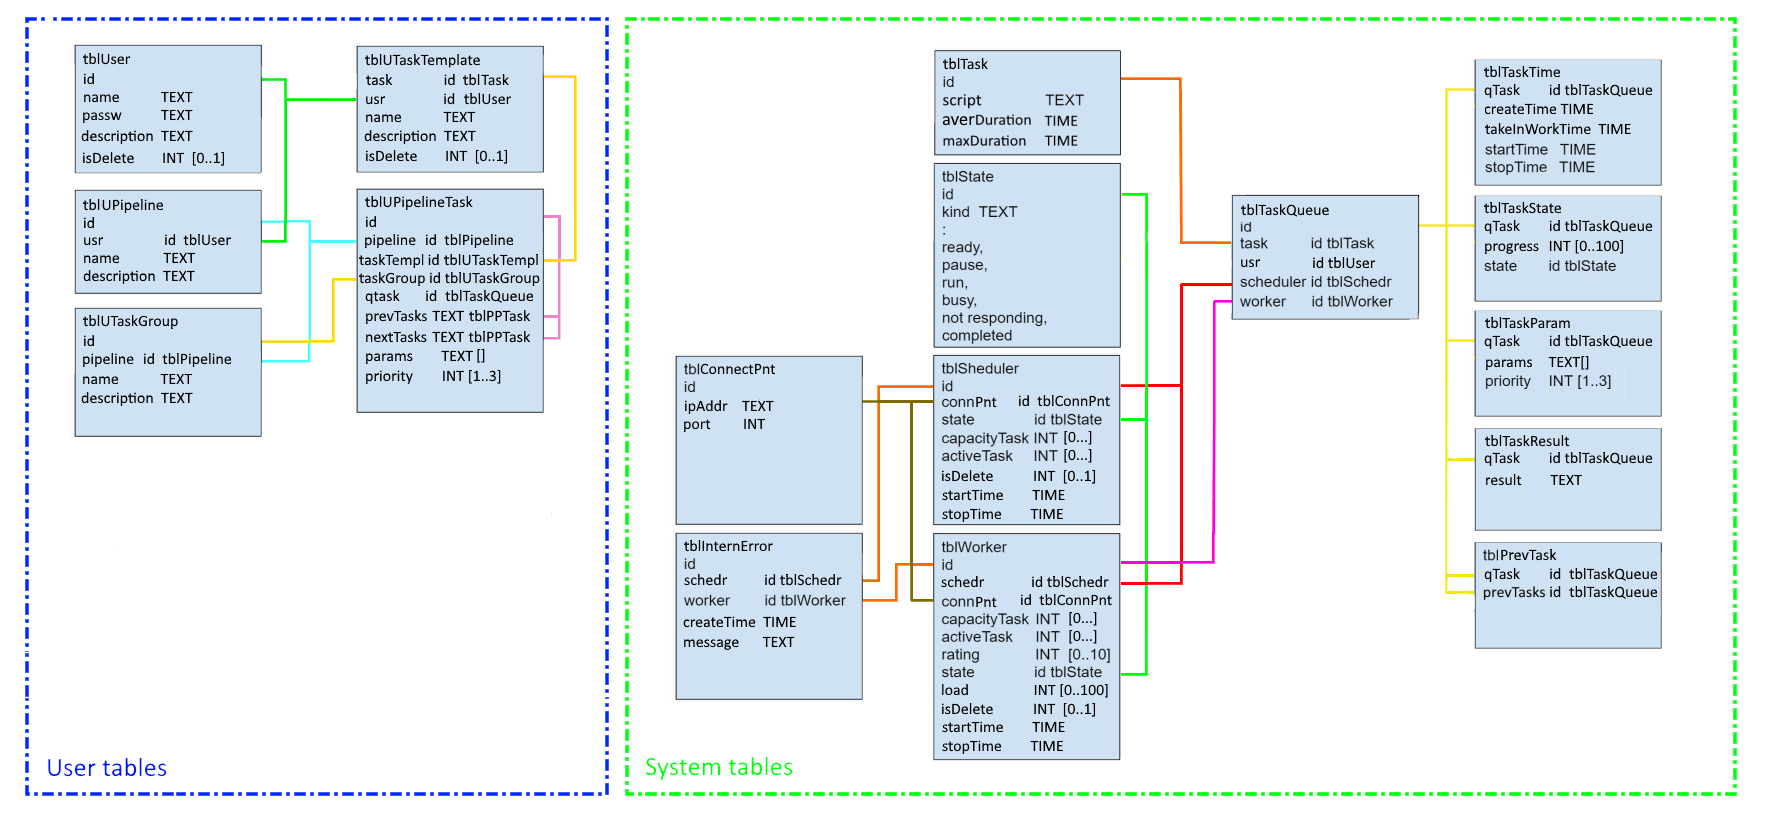
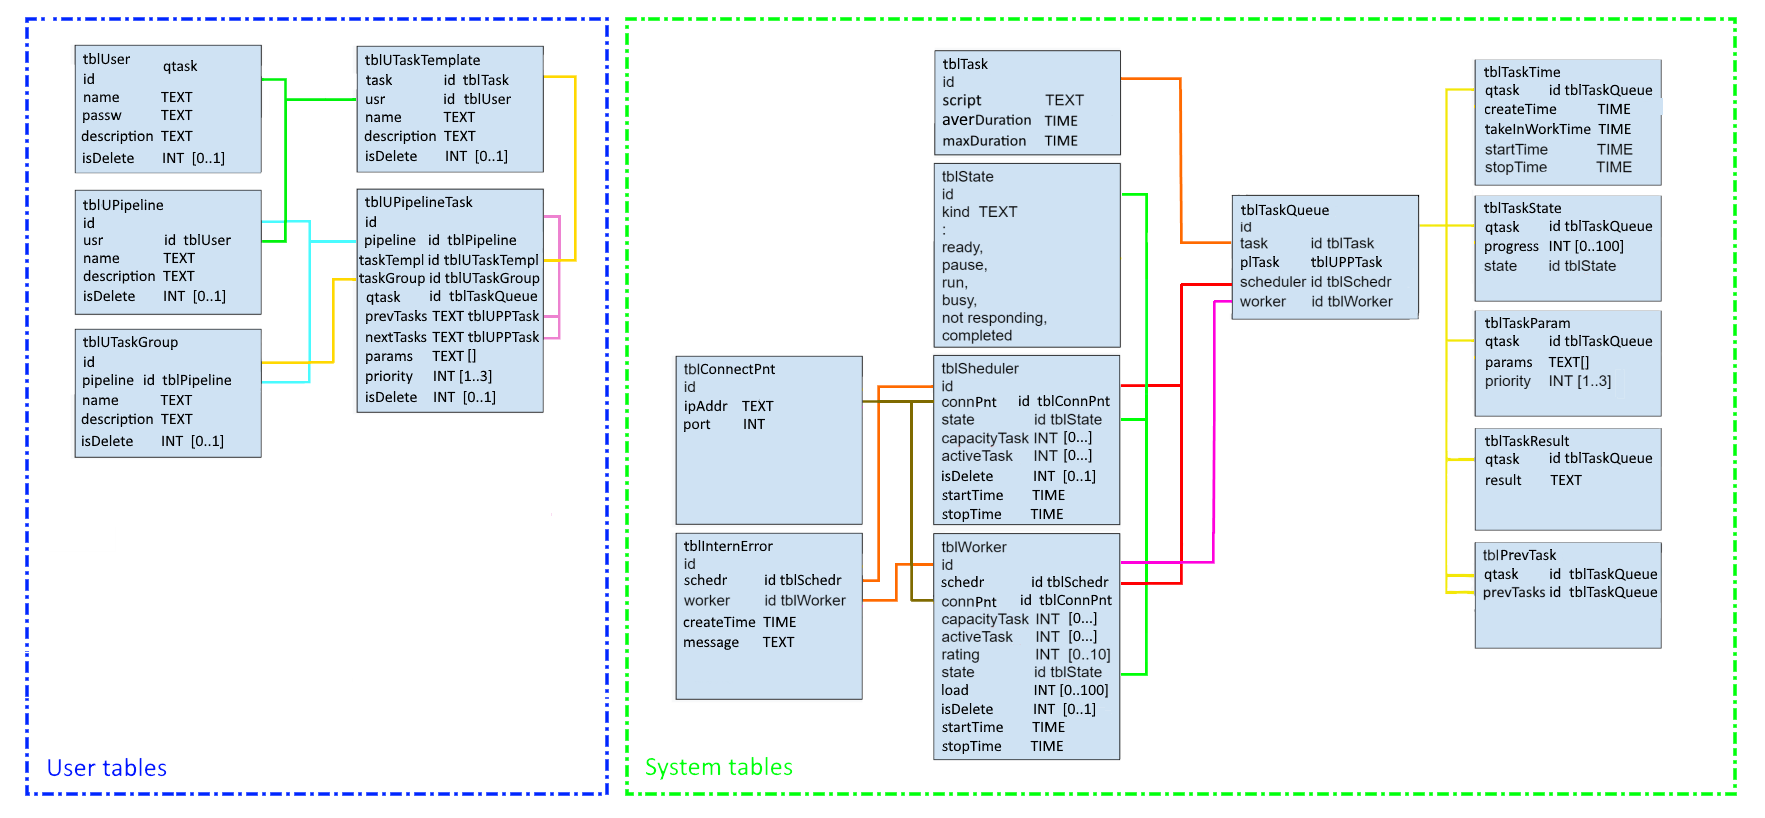
-dev

diff --git a/core/zmDbProvider/dbPGProvider.cpp b/core/zmDbProvider/dbPGProvider.cpp
@@ -177,7 +177,7 @@ bool DbProvider::createTables(){
   ss << "CREATE TABLE IF NOT EXISTS tblTaskQueue("
         "id           SERIAL PRIMARY KEY,"
         "task         INT NOT NULL REFERENCES tblTask,"       
-        "usr          INT NOT NULL REFERENCES tblUser,"
+        "plTask       INT NOT NULL REFERENCES tblUPipelineTask,"
         "schedr       INT REFERENCES tblScheduler,"
         "worker       INT REFERENCES tblWorker);";
   QUERY(ss.str().c_str(), PGRES_COMMAND_OK);
@@ -224,7 +224,8 @@ bool DbProvider::createTables(){
         "id           SERIAL PRIMARY KEY,"
         "usr          INT NOT NULL REFERENCES tblUser,"
         "name         TEXT NOT NULL CHECK (name <> ''),"
-        "description  TEXT NOT NULL);";
+        "description  TEXT NOT NULL,"
+		"isDelete     INT NOT NULL DEFAULT 0 CHECK (isDelete BETWEEN 0 AND 1));";
   QUERY(ss.str().c_str(), PGRES_COMMAND_OK);
 
   ss.str("");
@@ -232,7 +233,8 @@ bool DbProvider::createTables(){
         "id           SERIAL PRIMARY KEY,"
         "pipeline     INT NOT NULL REFERENCES tblUPipeline,"
         "name         TEXT NOT NULL CHECK (name <> ''),"
-        "description  TEXT NOT NULL);";
+        "description  TEXT NOT NULL,"
+		"isDelete     INT NOT NULL DEFAULT 0 CHECK (isDelete BETWEEN 0 AND 1));";
   QUERY(ss.str().c_str(), PGRES_COMMAND_OK);
 
   ss.str("");
@@ -254,7 +256,8 @@ bool DbProvider::createTables(){
         "priority     INT NOT NULL DEFAULT 1 CHECK (priority BETWEEN 1 AND 3),"
         "prevTasks    INT[] NOT NULL,"     // [..]
         "nextTasks    INT[] NOT NULL,"     // [..]
-        "params       TEXT[] NOT NULL);";  // ['param1','param2'..]
+        "params       TEXT[] NOT NULL,"    // ['param1','param2'..]
+		"isDelete     INT NOT NULL DEFAULT 0 CHECK (isDelete BETWEEN 0 AND 1));";
   QUERY(ss.str().c_str(), PGRES_COMMAND_OK);
     
   ///////////////////////////////////////////////////////////////////////////
@@ -334,7 +337,7 @@ bool DbProvider::createTables(){
         "    prevTasks = task.prevTasks,"
         "    nextTasks = task.nextTasks,"
         "    params = task.params"
-        "  WHERE id = task.id;"
+        "  WHERE id = task.id AND isDelete = 0;"
         "  IF NOT FOUND THEN"
         "    RETURN 0;"
         "  END IF;"
@@ -356,7 +359,7 @@ bool DbProvider::createTables(){
         "BEGIN"
         "  SELECT * INTO task "
         "  FROM tblUPipelineTask "
-        "  WHERE id = tId;"
+        "  WHERE id = tId AND isDelete = 0;"
         "  IF NOT FOUND THEN"
         "    RETURN 0;"
         "  END IF;"
@@ -368,13 +371,13 @@ bool DbProvider::createTables(){
         "    RETURN -1;"
         "  END IF;"
 
-        "  INSERT INTO tblTaskQueue (task, usr) VALUES("
+        "  INSERT INTO tblTaskQueue (task, plTask) VALUES("
         "    task.taskTempl,"
-        "    (SELECT usr FROM tblUPipeline WHERE id = task.pipeline)) RETURNING id INTO qId;"
+        "    tId) RETURNING id INTO qId;"
 
         "  UPDATE tblUPipelineTask SET"
         "    qtask = qId"
-        "  WHERE id = task.id;"
+        "  WHERE id = tId;"
 
         "  INSERT INTO tblTaskTime (qtask) VALUES("
         "    qId);"
@@ -880,7 +883,7 @@ bool DbProvider::getPipeline(uint64_t pplId, ZM_Base::UPipeline& cng){
   lock_guard<mutex> lk(_mtx);
   stringstream ss;
   ss << "SELECT usr, name, description FROM tblUPipeline "
-        "WHERE id = " << pplId << ";";
+        "WHERE id = " << pplId << " AND isDelete = 0;";
 
   PGres pgr(PQexec(_pg, ss.str().c_str()));
   if (PQresultStatus(pgr.res) != PGRES_TUPLES_OK){
@@ -903,7 +906,7 @@ bool DbProvider::changePipeline(uint64_t pplId, const ZM_Base::UPipeline& newCng
         "usr = '" << newCng.uId << "',"
         "name = '" << newCng.name << "',"
         "description = '" << newCng.description << "' "
-        "WHERE id = " << pplId << ";";
+        "WHERE id = " << pplId << " AND isDelete = 0;";
 
   PGres pgr(PQexec(_pg, ss.str().c_str()));
   if (PQresultStatus(pgr.res) != PGRES_COMMAND_OK){
@@ -915,9 +918,10 @@ bool DbProvider::changePipeline(uint64_t pplId, const ZM_Base::UPipeline& newCng
 bool DbProvider::delPipeline(uint64_t pplId){
   lock_guard<mutex> lk(_mtx);
   stringstream ss;
-  ss << "DELETE FROM tblUPipeline "
+  ss << "UPDATE tblUPipeline SET "  
+        "isDelete = 1 "
         "WHERE id = " << pplId << ";";
-
+		
   PGres pgr(PQexec(_pg, ss.str().c_str()));
   if (PQresultStatus(pgr.res) != PGRES_COMMAND_OK){
     errorMess(string("delPipeline error: ") + PQerrorMessage(_pg));
@@ -929,7 +933,7 @@ std::vector<uint64_t> DbProvider::getAllPipelines(uint64_t userId){
   lock_guard<mutex> lk(_mtx);
   stringstream ss;
   ss << "SELECT id FROM tblUPipeline "
-        "WHERE usr = " << userId << ";";
+        "WHERE usr = " << userId << " AND isDelete = 0;";
 
   PGres pgr(PQexec(_pg, ss.str().c_str()));
   if (PQresultStatus(pgr.res) != PGRES_TUPLES_OK){
@@ -964,7 +968,7 @@ bool DbProvider::getGroup(uint64_t gId, ZM_Base::UGroup& cng){
   lock_guard<mutex> lk(_mtx);
   stringstream ss;
   ss << "SELECT pipeline, name, description FROM tblUTaskGroup "
-        "WHERE id = " << gId << ";";
+        "WHERE id = " << gId << " AND isDelete = 0;";
 
   PGres pgr(PQexec(_pg, ss.str().c_str()));
   if (PQresultStatus(pgr.res) != PGRES_TUPLES_OK){
@@ -987,7 +991,7 @@ bool DbProvider::changeGroup(uint64_t gId, const ZM_Base::UGroup& newCng){
         "pipeline = '" << newCng.pplId << "',"
         "name = '" << newCng.name << "',"
         "description = '" << newCng.description << "' "
-        "WHERE id = " << gId << ";";
+        "WHERE id = " << gId << " AND isDelete = 0;";
 
   PGres pgr(PQexec(_pg, ss.str().c_str()));
   if (PQresultStatus(pgr.res) != PGRES_COMMAND_OK){
@@ -999,7 +1003,8 @@ bool DbProvider::changeGroup(uint64_t gId, const ZM_Base::UGroup& newCng){
 bool DbProvider::delGroup(uint64_t gId){
   lock_guard<mutex> lk(_mtx);
   stringstream ss;
-  ss << "DELETE FROM tblUTaskGroup "
+  ss << "UPDATE tblUTaskGroup SET "  
+        "isDelete = 1 "
         "WHERE id = " << gId << ";";
 
   PGres pgr(PQexec(_pg, ss.str().c_str()));
@@ -1013,7 +1018,7 @@ std::vector<uint64_t> DbProvider::getAllGroups(uint64_t pplId){
   lock_guard<mutex> lk(_mtx);
   stringstream ss;
   ss << "SELECT id FROM tblUTaskGroup "
-        "WHERE pipeline = " << pplId << ";";
+        "WHERE pipeline = " << pplId << " AND isDelete = 0;";
 
   PGres pgr(PQexec(_pg, ss.str().c_str()));
   if (PQresultStatus(pgr.res) != PGRES_TUPLES_OK){
@@ -1166,7 +1171,7 @@ bool DbProvider::getTask(uint64_t tId, ZM_Base::UTask& outTCng){
   stringstream ss;
   ss << "SELECT pipeline, COALESCE(taskGroup, 0), taskTempl, priority, prevTasks, nextTasks, params "
         "FROM tblUPipelineTask "
-        "WHERE id = " << tId << ";";
+        "WHERE id = " << tId << " AND isDelete = 0;";
 
   PGres pgr(PQexec(_pg, ss.str().c_str()));
   if (PQresultStatus(pgr.res) != PGRES_TUPLES_OK){
@@ -1224,8 +1229,9 @@ bool DbProvider::changeTask(uint64_t tId, const ZM_Base::UTask& newCng){
 bool DbProvider::delTask(uint64_t tId){
   lock_guard<mutex> lk(_mtx);
   stringstream ss;
-  ss << "DELETE FROM tblUPipelineTask "
-        "WHERE id = " << tId << ";";
+  ss << "UPDATE tblUPipelineTask SET "
+        "isDelete = 1 "
+        "WHERE task = " << tId << ";";
 
   PGres pgr(PQexec(_pg, ss.str().c_str()));
   if (PQresultStatus(pgr.res) != PGRES_COMMAND_OK){
@@ -1354,7 +1360,7 @@ std::vector<uint64_t> DbProvider::getAllTasks(uint64_t pplId, ZM_Base::StateType
   stringstream ss;
   ss << "SELECT ut.id FROM tblUPipelineTask ut "
         "LEFT JOIN tblTaskState ts ON ts.qtask = ut.qtask "
-        "WHERE (ts.state = " << (int)state << " OR " << (int)state << " = -1) "
+        "WHERE (ts.state = " << (int)state << " OR " << (int)state << " = -1) AND ut.isDelete = 0 "
           "AND ut.pipeline = " << pplId << ";";
 
   PGres pgr(PQexec(_pg, ss.str().c_str()));

diff --git a/core/zmBase/structurs.h b/core/zmBase/structurs.h
@@ -101,7 +101,7 @@ namespace ZM_Base{
   struct QueueTask{
     uint64_t id;              // id tblTaskQueue
     uint64_t tId;             // id tblTask
-    uint64_t uId;             // launcher id tblUser
+    uint64_t pltId;           // id tblUPipelineTask
     StateType state;
     int priority;             // [1..3]
     int progress;             // [0..100] 
